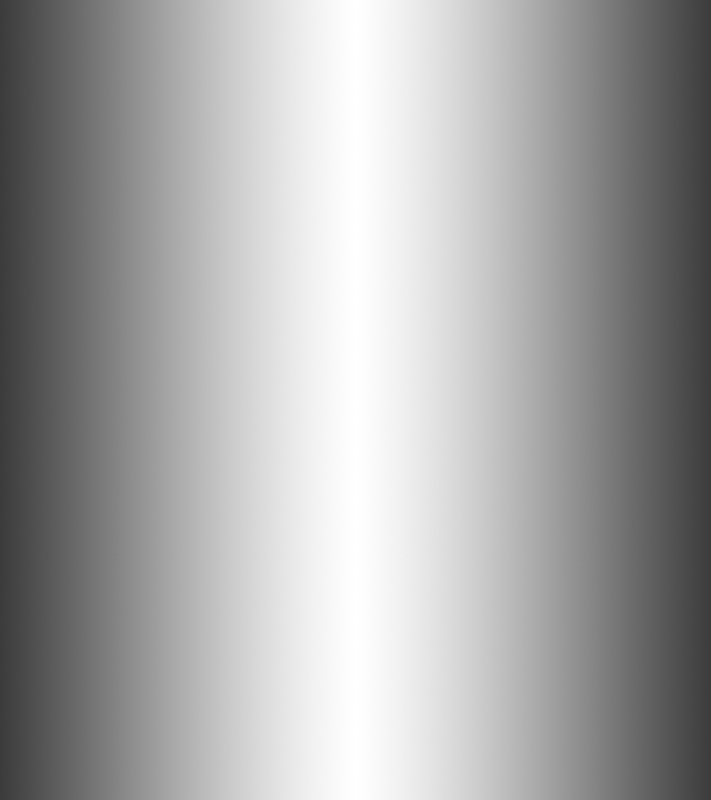
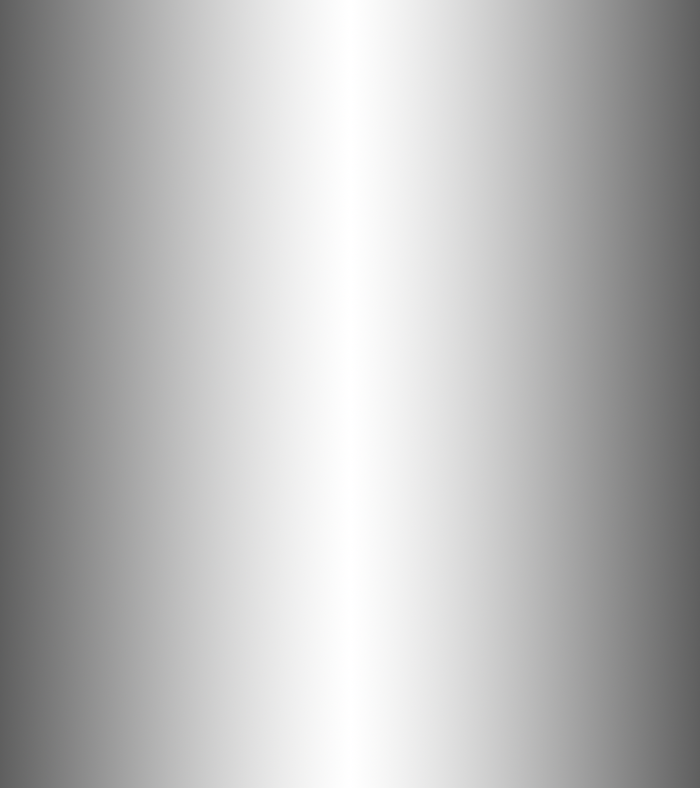
Buttons und Hintergrund beim Game

diff --git a/src/game/GamePanel.java b/src/game/GamePanel.java
@@ -60,10 +60,14 @@ public class GamePanel extends JPanel implements Runnable {
     
     private boolean scorePanel = false;
     Icon quitIcon = new ImageIcon("resources/Quit.png");
+    Icon quit1Icon = new ImageIcon("resources/Quit1.png");
     Icon replayIcon = new ImageIcon("resources/Replay.png");
+    Icon replay2Icon = new ImageIcon("resources/Replay1.png");
     Icon nextLevelIcon = new ImageIcon("resources/NextLevel.png");
     private Button quit = new Button(quitIcon);
+    private Button quit2 = new Button(quit1Icon);
     private Button replay = new Button(replayIcon);
+    private Button replay2 = new Button(replay2Icon);
     private Button nextLevel = new Button (nextLevelIcon);
     private JLabel yourTime = new JLabel();
     private JLabel yourMissles = new JLabel();
@@ -85,7 +89,7 @@ public class GamePanel extends JPanel implements Runnable {
         this.y = y;
         //Laedt das Hintergrundbild
 		try {
-			background = ImageIO.read(new File("resources/Hintergrund.png"));
+			background = ImageIO.read(new File("resources/Hintergrund1.png"));
 		} catch (IOException e1) {
 			e1.printStackTrace();
 		}
@@ -198,6 +202,13 @@ public class GamePanel extends JPanel implements Runnable {
 				Game.changePanel("menu", GamePanel.this);
 			}
 		});
+        quit2.addActionListener(new ActionListener() {
+
+			@Override
+			public void actionPerformed(ActionEvent e) {
+				Game.changePanel("menu", GamePanel.this);
+			}
+		});
         
         nameField.addMouseListener(new MouseAdapter() {
 			@Override
@@ -263,6 +274,10 @@ public class GamePanel extends JPanel implements Runnable {
         super.paintComponent(canon);
         
         canon.drawImage(background, 0, 0, null);
+        replay2.setBounds(this.x / 100 * 84, this.y / 100 * 94, Menu.getButtonWidth() / 2, Menu.getButtonHeight() / 2);
+        quit2.setBounds(this.x / 100 * 84, this.y / 100 * 99, Menu.getButtonWidth() / 2, Menu.getButtonHeight() / 2);
+        this.add(quit2);
+        this.add(replay2);
 
         //Rad laden
         rad.loadWheel(canon, startSpokes);

diff --git a/src/multiplayer/MultiplayerClient.java b/src/multiplayer/MultiplayerClient.java
@@ -59,13 +59,14 @@ public class MultiplayerClient extends JPanel implements Runnable{
     private int victory;
     private boolean finishedGame=false;
 
-    private boolean scorePanel = false;
+    private boolean scorePanel;
     Icon quitIcon = new ImageIcon("resources/Quit.png");
     Icon replayIcon = new ImageIcon("resources/Replay.png");
     private Button quit = new Button(quitIcon);
     private Button replay = new Button(replayIcon);
 
     public MultiplayerClient(int x, int y, int missileClip, int playerID, String adress) {
+    	scorePanel=false;
         this.setFocusable(true);
         this.playerID = playerID;
         this.missileClipPlayer1 = missileClip;
